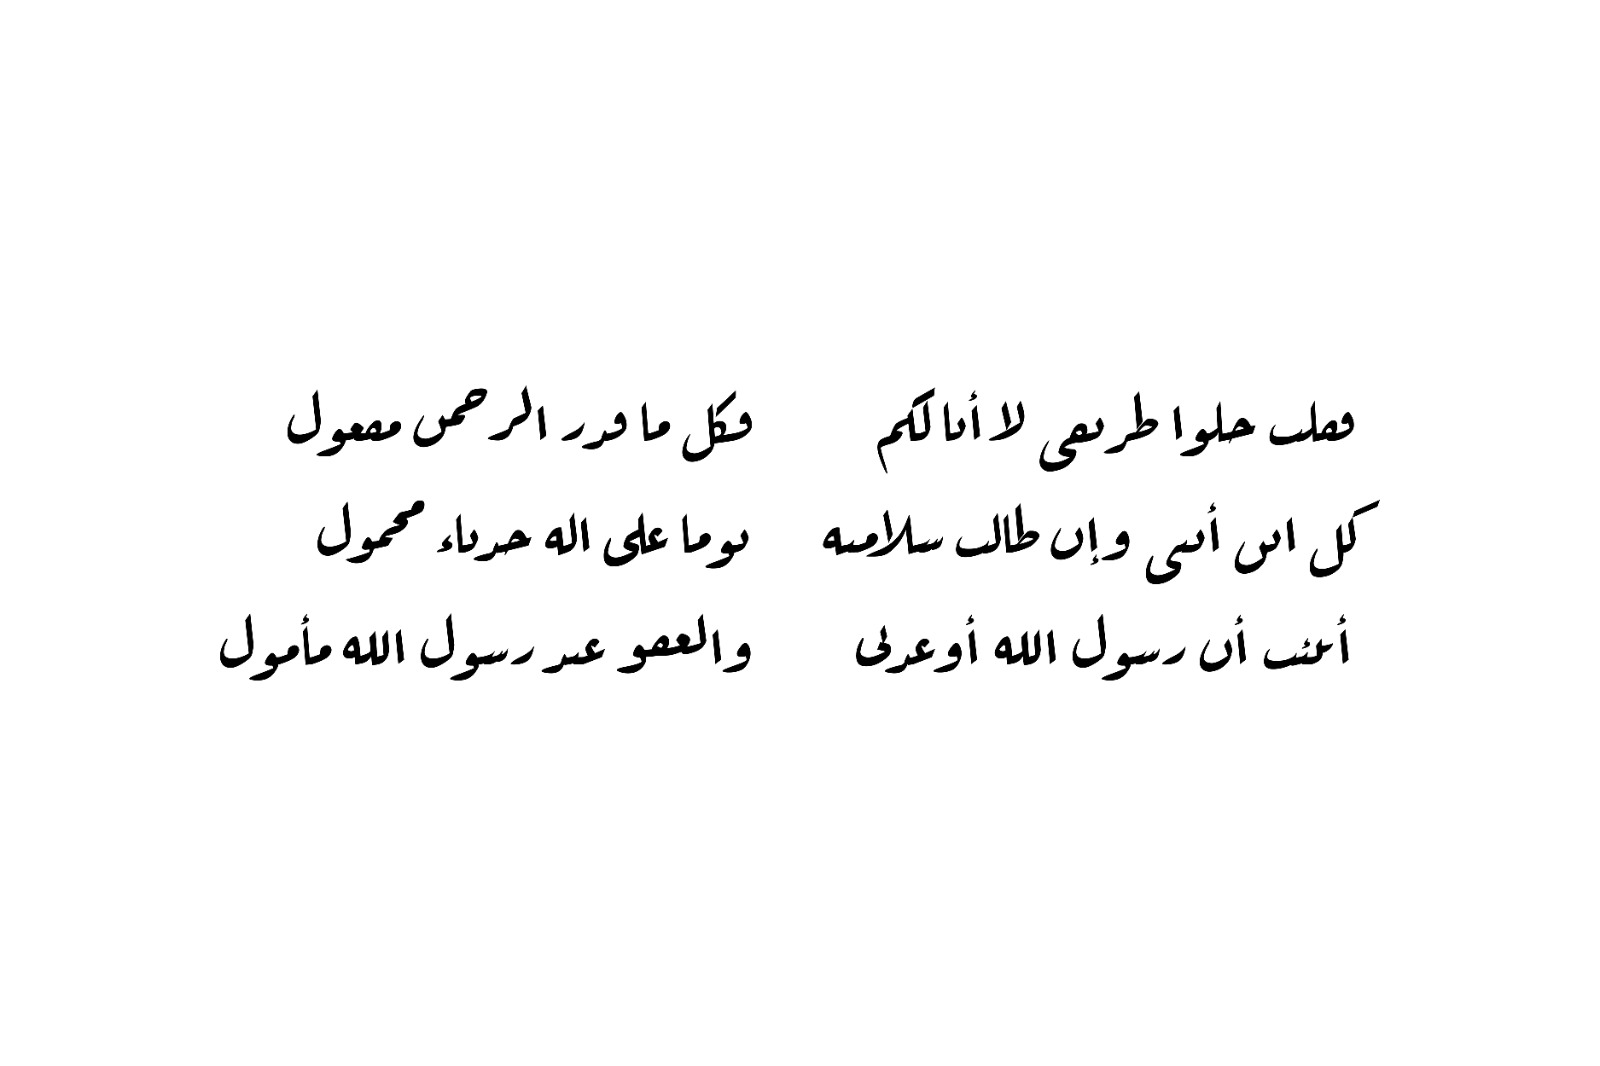
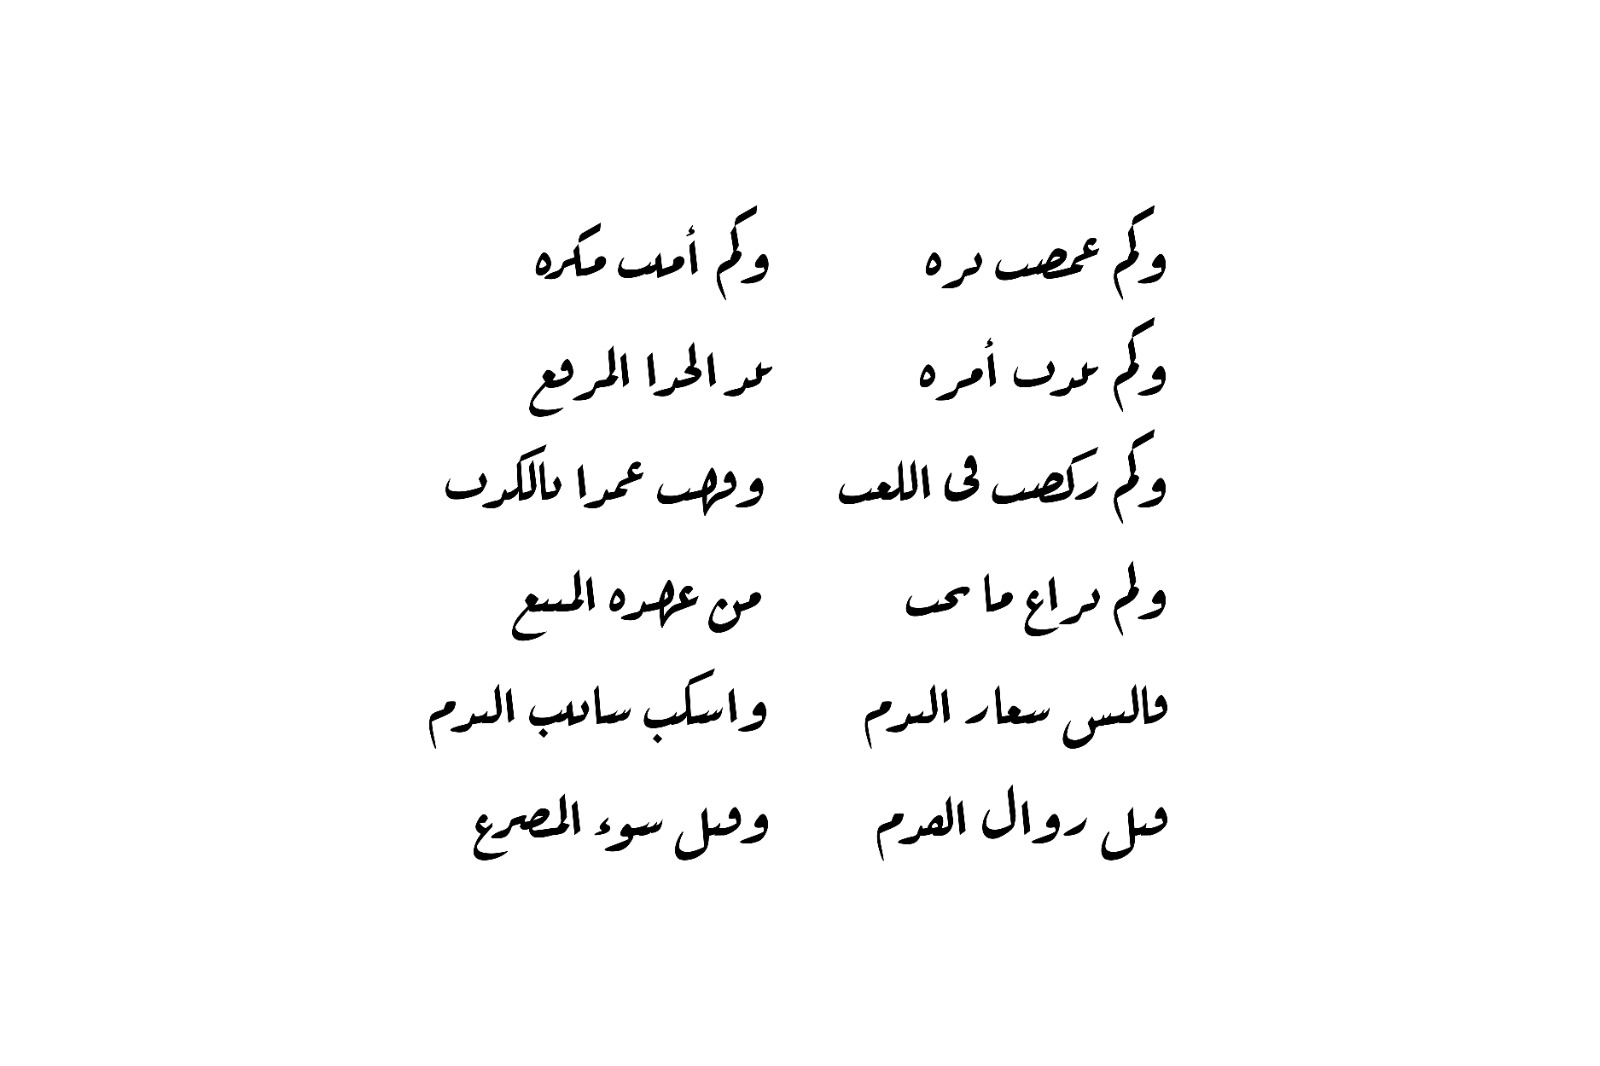
final version

diff --git a/src/husam.jsx b/src/husam.jsx
@@ -6,21 +6,9 @@ import { useState, useEffect, useRef } from "react";
 const TEAM_NAMES = ["الفريق الأول", "الفريق الثاني"];
 
 const CATEGORIES = [
-  // {
-  //   name: "لعبة الصور",
-  //   emoji: "🐪",
-  //   questions: [
-  //     { points: 200, q: "", a: "زرقاء اليمامة",    img: "/images/31200.jpeg" },
-  //     { points: 400, q: "", a: "الصبر مفتاح الفرج", img: "/images/31400.jpeg" },
-  //     { points: 600, q: "", a: "سبق السيف العذل",   img: "/images/31600.jpeg" },
-  //     { points: 200, q: "", a: "الفرزدق",           img: "/images/32200.jpeg" },
-  //     { points: 400, q: "", a: "ابن خلدون",         img: "/images/32400.jpeg" },
-  //     { points: 600, q: "", a: "برشلونة",           img: "/images/32600.jpeg" },
-  //   ],
-  // },
   {
-    name: "الشعر",
-    emoji: "🐪",
+    name: "بدون نقاط",
+    emoji: " 🎤 ",
     questions: [
       { points: 200, q: "", a: "كأنك يا أبا زيد ما غزيت",    img: "/images/11200.jpeg" },
       { points: 400, q: "", a: "وليس بقولك من هذا بضائره العرب تعرف من أنكرت والعجم \n كلتا يديه غياثٌ عمَّ نفعهما يستوكفان ولا يعورهما عدم\n سهل الخليفة لا تخشى بوادره يزينه اثنان: حسن الخلق والشيم", img: "/images/11400.jpeg" },
@@ -31,150 +19,247 @@ const CATEGORIES = [
     ],
   },
   // {
-  //   name: "لعبة الصور",
-  //   emoji: "🐪",
+  //   name: "بدون نقاط",
+  //   emoji: " 🎤 ",
   //   questions: [
   //     { points: 200, q: "", a: "يا رب إن عظُمت ذنوبي كثرةً، فلقد علمت بأن عفوك أعظم ان كان لا يرجوك إلا مُحسن， فبمن يلوذ ويستجير المجرم ",    img: "/images/21200.jpeg" },
   //     { points: 400, q: "", a: "نأتي إلى الدنيا ونحن سواسية، طفل الملوك هنا كطفل الحاشية \nونغادر الدنيا ونحن كما ترى، متشابهون على قبور حافية \nأعمالنا تُعلي وتَخفض شأننا، وحسابنا بالحق يوم الغاشية \nحور وأنهار، قصور عالية، وجهنم تُصلى ونار حامية \nفاختر لنفسك ما تُحب وتبتغي، ما دام يومك والليالي باقية", img: "/images/21400.jpeg" },
-  //     { points: 600, q: "", a: "أتيت القبور فناديتها، فأين المعظَّم والمحتقر؟ \nوأين المدِلُّ بسلطانه، وأين المزكَّى إذا ما افتخر؟ \nتفانوا جميعا فما مخبر، وماتوا جميعا ومات الخبر \nتروح وتغدو بنات الثرى، فتمحو محاسن تلك الصور",   img: "/images/21600.jpeg" },
+  //     { points: 600, q: "", a: "أتيت القبور فناديتها، فأين المعظَّم والمحتقر؟ وأين المدِلُّ بسلطانه، وأين المزكَّى إذا ما افتخر؟ تفانوا جميعا فما مخبر، وماتوا جميعا ومات الخبر تروح وتغدو بنات الثرى، فتمحو محاسن تلك الصور فيا سائلي عن أناس مضوا، أما لك فيما ترى معتبر؟",   img: "/images/21600.jpeg" },
   //     { points: 200, q: "", a: "إذا ما قال لي ربي أما استحييت تعصيني \  وتخفي الذنب عن خلقي وبالعصيان تأتيني",           img: "/images/22200.jpeg" },
   //     { points: 400, q: "", a: "َيُّها الكاتِبُ ما تَكتُبُ مَكتوبٌ عَلَيك فَاِجعَلِ المَكتوبَ خَيراً فَهوَ مَردودٌ إِلَيك",         img: "/images/22400.jpeg" },
   //     { points: 600, q: "", a: "لا علم لي إن كنت أُمسي بينكم حيا لعلي أو قتيلا ربما | فإذا قُتلت فلست أدري موئلي في جنة أم سعير أُضرما | لكن جلدي مس جلدك لعلي أمضي وجلدي عن جهنم حرما",           img: "/images/22600.jpeg" },
   //   ],
   // },
-  {
-    name: "دينية",
-    emoji: "🕌",
+  // {
+  //   name: "بدون نقاط",
+  //   emoji: " 🎤 ",
+  //   questions: [
+  //     { points: 200, q: "", a: "اللهم لولا أنت ما اهتدينا، ولا تصدقنا ولا صلينا إنا إذا صِيح بنا أتينا، وبالصياح عولوا علينا إن الألى هم بغوا علينا، إذا أرادوا فتنة أبينا",    img: "/images/31200.jpeg" },
+  //     { points: 400, q: "", a: "يا فاطر الخلق البديع وكافلا رزق الجميع سحاب جودك هاطل يا مُسبغ البر الجزيل ومُسبل الستر الجميل، عميم طولك طائل يا عالم السر الخفي ومُنجز الوعد الوقي، قضاء حكمك عادل", img: "/images/31400.jpeg" },
+  //     { points: 600, q: "", a: "النفس تجزع أن تكون فقيرة ... والفقر خير من غنى يطغيها ... وغنى النفوس هو الكفاف فإن أبت ... فجميع ما في الأرض لا يكفيها ... هي القناعة فالزمها تكن ملكاً ... لو لم تكن لك إلا راحة البدن",   img: "/images/31600.jpeg" },
+  //     { points: 200, q: "", a: "والضعيف فيكم قوي عندي حتى أُريح عليه حقه، والقوي فيكم ضعيف عندي حتى آخذ الحق منه",           img: "/images/32200.jpeg" },
+  //     { points: 400, q: "", a: "لا تأسفن على الدنيا وما فيها \  فالموت لا شك يفنينا ويفنيها \  واعمل لدار غد رضوان خازنها \ والجار أحمد والرحمن ناشيها",         img: "/images/32400.jpeg" },
+  //     { points: 600, q: "", a: "قل للمليحة في الخمار الأسود ماذا فعلت بزاهدٍ مُتعبد | قد كان شمَّر للصلاة ثيابه حتى قعدت له بباب المسجد | ردي له صلاته وصيامه لا تقتليه بحق محمد",           img: "/images/32600.jpeg" },
+  //   ],
+  // },
+  // {
+  //   name: "بدون نقاط",
+  //   emoji: " 🎤 ",
+  //   questions: [
+  //     { points: 200, q: "", a: "لا تنه عن خُلق وتأتي مثله، عار عليك إذا فعلت عظيم",    img: "/images41200.jpeg" },
+  //     { points: 400, q: "", a: " قَد رَأَيتَ القُرونَ قَبلُ تَفانَت \  دَرَسَت وَاِنقَضَت سَريعاً وَبانَت \  كَم أُناسٍ رَأَيتَ أَكرَمَتِ الدُنــيا \ بِبَعضِ العُروضِ ثُمَّ أَهانَت", img: "/images/41400.jpeg" },
+  //     { points: 600, q: "", a: "واندب زمانا سلفا سوَّدت فيه الصحفا، ولم تزل معتكفا على القبيح الشنع كم ليلة أودعتها مآثما أبدعتها، لشهوة أطعتها في مرقد ومضجع",   img: "/images/41600.jpeg" },
+  //     { points: 200, q: "", a: "لكل داء دواء يُستطب به، إلا الحماقة أعيت من يداويها",           img: "/images/42200.jpeg" },
+  //     { points: 400, q: "", a: "لَعَمرُكَ ما الإِنسانُ إِلّا بِدينِهِ \  فَلا تَترُكِ التَقوى اِتِّكالاً عَلى النَسَب \  فَقَد رَفَعَ الإِسلامُ سَلمانَ فارِسٍ \  وَقَد وَضَعَ الشِركُ الشَريفَ أَبا لَهَب",         img: "/images/42400.jpeg" },
+  //     { points: 600, q: "", a: "لَعَمرُكَ ما الإِنسانُ إِلّا بِدينِهِ \  فَلا تَترُكِ التَقوى اِتِّكالاً عَلى النَسَب \  فَقَد رَفَعَ الإِسلامُ سَلمانَ فارِسٍ \  وَقَد وَضَعَ الشِركُ الشَريفَ أَبا لَهَب",           img: "/images/42600.jpeg" },
+  //   ],
+  // },
+  // {
+  //   name: "بدون نقاط",
+  //   emoji: " 🎤 ",
+  //   questions: [
+  //     { points: 200, q: "", a: "واخضع خضوع المعترف، ولذ ملاذ المقترف واعص هواك وانحرف، عنه انحراف المُقلع",    img: "/images/51200.jpeg" },
+  //     { points: 400, q: "", a: "فَما كُلُّ مَن تَهواهُ يَهواكَ قَلبُهُ \ وَلا كُلُّ مَن صافَيتَهُ لَكَ قَد صَفا \ إِذا لَم يَكُن صَفوُ الوِدادِ طَبيعَةً \ فَلا خَيرَ في وِدٍّ يَجيءُ تَكَلُّفا", img: "/images/51400.jpeg" },
+  //     { points: 600, q: "", a: "إلامَ تسهو وتَني، ومُعظم العمر فَني في ما يضر المقتني، ولست بالمرتدع ويحك يا نفس احرصي， على ارتياد المخلص وطاوعي وأخلصي， واستمعي النصح وعي",   img: "/images/51600.jpeg" },
+  //     { points: 200, q: "", a: "لا ترتجي من عباد الله مسالة \ فالعبد عبدٌ ورب العبد يهب",           img: "/images/52200.jpeg" },
+  //     { points: 400, q: "", a: "ولدتك أمُّك يا ابن آدم باكياً والناس حولك يضحكون سرورا فاعمل لنفسك أن تكون إذا بكوا في يوم موتك ضاحكاً مسرورا",         img: "/images/52400.jpeg" },
+  //     { points: 600, q: "", a: "وكم غمصت بره، وكم أمنت مكره، وكم نبذت أمره نبذ الحذا المرقع وكم ركضت في اللعب، وفُهت عمدا بالكذب، ولم تراع ما يحب من عهده المتبع فالبس شعار الندم، واسكب شآبيب الندم، قبل زوال القدم وقبل سوء المصرع",           img: "/images/52600.jpeg" },
+  //   ],
+  // },
+
+  // Group 1
+{
+    name: "من أنا؟",
+    emoji: "🎭",
     questions: [
-      { points: 200, q: "اكثر نبي ذكر في القران؟", a: "موسى" },
-      { points: 400, q: "السورة التي تسمى قلب القران؟", a: "يس" },
-      { points: 600, q: "معنى تؤزهم ازا؟", a: "تحركهم بشده" },
-      { points: 200, q: "ماهو الكوثر؟", a: "نهر في الجنه أعطاه الله للنبي" },
-      { points: 400, q: "معنى كلمة ضيزى؟", a: "قسمة ظالمة" },
-      { points: 600, q: "معنى الرقيم؟", a: "اللوح المكتوب" },
+      { points: 200, q: "شيدتني أيدٍ لا تُحصى فوق الجبال والوديان، بُنيت لأمنع الغزاة لكنهم اخترقوني، وأمتد لآلاف الأميال. من أنا؟", a: "سور الصين العظيم" },
+      { points: 400, q: "ولدت في ليلة واحدة عام 1961 وقسّمت مدينة بأكملها بين عالمين، وفي ليلة واحدة أيضاً عام 1989 هدمني الناس بأيديهم. من أنا؟", a: "جدار برلين" },
+      { points: 600, q: "أقول إن الصواب والخطأ ليسا مطلقين بل يتحددان بالثقافة والزمان، لكنني أنهار حين تُسأل إن كانت الإبادة الجماعية خطأً في كل زمان. من أنا؟", a: "النسبية الأخلاقية" },
+      { points: 200, q: "أنهيت حرباً كانت ستأكل ملايين، لكنني فتحت نقاشاً لم يُغلق عن الحد الفاصل بين العلم والأخلاق. من أنا؟", a: "القنبلة النووية" },
+      { points: 400, q: "خضت قرابة أربعة عقود بين عملاقين لم تشتبك جيوشهما مباشرة، وانتهيت دون معاهدة رسمية حين انهار أحد طرفيها من الداخل. من أنا؟", a: "الحرب الباردة" },
+      { points: 600, q: "لستُ تسجيلاً أميناً للماضي بل إعادة بناء تتغير في كل مرة تستدعيني، وهويتك الشخصية مبنية بالكامل عليّ. من أنا؟", a: "الذاكرة" },
     ],
-  },
-  // {
-  //   name: "دينية",
-  //   emoji: "🕌",
-  //   questions: [
-  //     { points: 200, q: "معنى الفلق؟", a: "الصباح" },
-  //     { points: 400, q: "معنى الزبانية؟", a: "ملائكة العذاب" },
-  //     { points: 600, q: "من الذي رافق موسى في رحلته للخضر؟", a: "يوشع" },
-  //     { points: 200, q: "السورة التي تسمى بقلب القران؟", a: "يس" },
-  //     { points: 400, q: "معنى المزن؟", a: "السحاب" },
-  //     { points: 600, q: "معنى كلمة فومها؟", a: "قمح" },
-  //   ],
-  // },
-  // {
-  //   name: "دينية",
-  //   emoji: "🕌",
-  //   questions: [
-  //     { points: 200, q: "اول سورة نزلت في القران؟", a: "العلق" },
-  //     { points: 400, q: "معنى كلمة سجيل؟", a: "طين متحجر محرق بالنار" },
-  //     { points: 600, q: "معنى المُهل؟", a: "النحاس المذاب" },
-  //     { points: 200, q: "من هو النبي المسمى إسرائيل؟", a: "يعقوب" },
-  //     { points: 400, q: "معنى كلمة امشاج؟", a: "اخلاط" },
-  //     { points: 600, q: "معنى السامدون؟", a: "اللاهون الغافلون" },
-  //   ],
-  // },
-  {
-    name: "معلومات عامة",
-    emoji: "🌍",
-    questions: [
-      { points: 200, q: "من مخترع المصباح؟", a: "اديسون" },
-      { points: 400, q: "عدد لاعبين كرة السلة؟", a: "5" },
-      { points: 600, q: 'من القائل "قربا نربط النعامة مني لقحت حرب وائل عن حيالي"؟', a: "الحارث بن عباد" },
-      { points: 200, q: "مؤسس علم الجبر؟", a: "الخوارزمي" },
-      { points: 400, q: "اسم اول جامعة في العالم؟", a: "القرويين" },
-      { points: 600, q: "الكوكب صاحب اكبر عدد اقمار؟", a: "زحل" },
-    ],
-  },
-  // {
-  //   name: "معلومات عامة",
-  //   emoji: "🌍",
-  //   questions: [
-  //     { points: 200, q: "ماهو اكبر محيط في العالم؟", a: "الهادئ" },
-  //     { points: 400, q: "ماهو المكان الذي لا يصله الدم في الجسم؟", a: "العين" },
-  //     { points: 600, q: "الكوكب الذي يومه أطول من سنته؟", a: "الزهرة" },
-  //     { points: 200, q: "اكبر كوكب في المجموعة الشمسية؟", a: "المشتري" },
-  //     { points: 400, q: "الحيوان الذي لا يصدر اي صوت؟", a: "الزرافة" },
-  //     { points: 600, q: "العلم الذي يدرس الزلازل؟", a: "السيزمولوجيا" },
-  //   ],
-  // },
-  // {
-  //   name: "معلومات عامة",
-  //   emoji: "🌍",
-  //   questions: [
-  //     { points: 200, q: "اطول نهر في العالم؟", a: "النيل" },
-  //     { points: 400, q: "اسرع مخلوق في الارض؟", a: "الشاهين" },
-  //     { points: 600, q: "الحيوان الذي لا يملك معدة؟", a: "فرس النهر" },
-  //     { points: 200, q: "المعدن السائل في درجة حرارة الغرفة؟", a: "الزئبق" },
-  //     { points: 400, q: "الغاز الأكثر وفرة في الغلاف الجوي؟", a: "النيتروجين" },
-  //     { points: 600, q: "من هو مكتشف الدورة الدموية الصغرى؟", a: "ابن النفيس" },
-  //   ],
-  // },
-  {
-    name: "جغرافيا",
-    emoji: "📍",
-    questions: [
-      { points: 200, q: "أصغر دولة في العالم؟", a: "الفاتيكان" },
-      { points: 400, q: "الدولة التي تملك اكبر مخزون نفط مؤكد؟", a: "فنزويلا" },
-      { points: 600, q: "اكبر دولة حبيسة لا تملك اي اتصال بالبحر؟", a: "كازاخستان" },
-      { points: 200, q: "الدولة التي تقع بين قارتين؟", a: "تركيا" },
-      { points: 400, q: "الدولة التي انفصلت عن باكستان 1971؟", a: "بنغلادش" },
-      { points: 600, q: "كم عدد الدول التي تعتبر اللغة العربية لغة رسمية؟", a: "24" },
-    ],
-  },
-  // {
-  //   name: "جغرافيا",
-  //   emoji: "📍",
-  //   questions: [
-  //     { points: 200, q: "في اي دولة وقعت معركة حطين؟", a: "فلسطين" },
-  //     { points: 400, q: "تاريخ الحرب العالمية الاولى (متى بدأت وانتهت)؟", a: "1914-1918" },
-  //     { points: 600, q: "الدولة التي تعرف بدولة الارز؟", a: "لبنان" },
-  //     { points: 200, q: "المضيق الذي يفصل اسبانيا والمغرب؟", a: "جبل طارق" },
-  //     { points: 400, q: "في اي مدينة تم القاء القنبلة النووية الثانية؟", a: "ناغازاكي" },
-  //     { points: 600, q: "الدولة التي تملك اكبر عدد براكين نشطة؟", a: "إندونيسيا" },
-  //   ],
-  // },
-  // {
-  //   name: "جغرافيا",
-  //   emoji: "📍",
-  //   questions: [
-  //     { points: 200, q: "العملة الرسمية في البرازيل؟", a: "الريال" },
-  //     { points: 400, q: "أطول سلسلة جبال؟", a: "الانديز" },
-  //     { points: 600, q: "الدولة التي تملك اكبر عدد مناطق زمنية؟", a: "فرنسا" },
-  //     { points: 200, q: "الدولة صاحبة اكبر غابة؟", a: "البرازيل" },
-  //     { points: 400, q: "الدولة التي تمنع العلكة؟", a: "سنغافورة" },
-  //     { points: 600, q: "الدولة صاحبة اكبر عدد جزر في العالم؟", a: "السويد" },
-  //   ],
-  // },
-  // {
+},
+// Group 2
+// {
+//     name: "من أنا؟",
+//     emoji: "🎭",
+//     questions: [
+//       { points: 200, q: "اخترعني الجيش الأمريكي في الستينيات لغرض عسكري محدود، واليوم لا يعرف كثيرون كيف كانت الحياة قبلي. من أنا؟", a: "الإنترنت" },
+//       { points: 400, q: "وُلدت في أمريكا التي لم تعترف بي إنساناً، وجدت نفسي في السجن شاباً فأعدت بناء نفسي من الصفر وخرجت خطيباً حاداً. من أنا؟", a: "مالكوم إكس" },
+//       { points: 600, q: "ظللت في ظل شيخي حتى كاد الناس ينسون أنني عالم مستقل، سجنوني معه وحين أُفرج عني أفرج عن قلم لم يتوقف. من أنا؟", a: "ابن القيم" },
+//       { points: 200, q: "تشكّلت على مدى ملايين السنين تحت الأرض، حوّلت دولاً صحراوية فقيرة إلى قوى مالية وأشعل حروباً ورسم تحالفات. من أنا؟", a: "البترول" },
+//       { points: 400, q: "عاش في زمن تقلّبات سياسية وشهد سقوط دول، حوّل ذلك إلى نظرية عن كيف تقوم الحضارات وكيف تسقط، والتقى بتيمورلنك. من أنا؟", a: "ابن خلدون" },
+//       { points: 600, q: "لا اقتصاد يعمل بدوني ولا علاقة تقوم بدوني، أُبنى ببطء شديد وأنهار بسرعة مذهلة. من أنا؟", a: "الثقة" },
+//     ],
+// },
+// // Group 3
+// {
+//     name: "من أنا؟",
+//     emoji: "🎭",
+//     questions: [
+//       { points: 200, q: "أطلقني البشر إلى السماء وأدور حول الأرض بدقة، بدأت قصتي عام 1957 وأصبحت شيئاً لا يتخيل أحد الحياة بدوني. من أنا؟", a: "القمر الصناعي" },
+//       { points: 400, q: "بدأت بجوع الشعب وانتهت بإعدام ملك على الملأ، رفعت شعارات الحرية والمساواة ثم أكلت أبناءها. من أنا؟", a: "الثورة الفرنسية" },
+//       { points: 600, q: "وُلد في السهول الأوراسية وبِيع في سوق النخاسة وهو مراهق، قاتل الصليبيين والمغول في جيل واحد وهزم الاثنين. من أنا؟", a: "الظاهر بيبرس" },
+//       { points: 200, q: "في القرن الرابع عشر محوت ثلث سكان أوروبا في سنوات قليلة، وصلت عبر الجرذان والبراغيث ويسمونني الموت الأسود. من أنا؟", a: "الطاعون" },
+//       { points: 400, q: "سجنته دولة جنوب أفريقيا سبعاً وعشرين عاماً، خرج شيخاً لكن غير مكسور وانتُخب رئيساً للبلد ذاتها التي سجنته. من أنا؟", a: "مانديلا" },
+//       { points: 600, q: "عُهد إليّ بجمع كتاب الله بين دفتين مرتين، وكنت مرجعاً في المواريث لمن هم أكبر مني سناً في الإسلام. من أنا؟", a: "زيد بن ثابت" },
+//     ],
+// },
+// // Group 4
+// {
+//     name: "من أنا؟",
+//     emoji: "🎭",
+//     questions: [
+//       { points: 200, q: "ظهرت في نهاية 2019 وأوقفت العالم بأسره في أشهر، أغلقت الحدود وعطّلت الاقتصادات وحوّلت المصافحة إلى فعل مشبوه. من أنا؟", a: "كوفيد" },
+//       { points: 400, q: "قاوم الاحتلال الإيطالي في الصحراء الليبية لأكثر من عشرين عاماً، أسروه وهو في الثمانين وأعدموه علناً. من أنا؟", a: "عمر المختار" },
+//       { points: 600, q: "وُلد لأب عربي وأمٍّ حبشية، أثبت نفسه في القتال حتى اضطر أبوه أن يعترف به، وحوّل حرمانه في الحب إلى معلقة تُقرأ حتى اليوم. من أنا؟", a: "عنترة بن شداد" },
+//       { points: 200, q: "هي الوحيدة من عجائب الدنيا السبع القديمة التي ما زالت قائمة، وظلت أطول إنشاء بشري لأكثر من ثلاثة آلاف وثمانمئة سنة. من أنا؟", a: "الأهرامات" },
+//       { points: 400, q: "عبر مضيقاً يحمل اسمه حتى اليوم بجيش أقل عدداً وهزم من واجهه في أسابيع، وفتح حضارة أضاءت أوروبا قروناً. من أنا؟", a: "طارق بن زياد" },
+//       { points: 600, q: "أقيسني البشر بالشمس والقمر لكن ماهيتي الحقيقية لا يزال الفيزيائيون يتجادلون فيها، وأثبت أينشتاين أنني لست مطلقاً. من أنا؟", a: "الزمن" },
+//     ],
+// },
+// // Group 5
+// {
+//     name: "من أنا؟",
+//     emoji: "🎭",
+//     questions: [
+//       { points: 200, q: "غادر طنجة وهو في الثانية والعشرين قاصداً الحج ولم يعد لثلاثين عاماً، رحلاته تجاوزت ما قطعه ماركو بولو بعدة أضعاف. من أنا؟", a: "ابن بطوطة" },
+//       { points: 400, q: "والٍ أموي بنى المدن وشق الطرق لكن يده بالدم كانت أسرع من يده بالعمران، وخطبته يوم دخل الكوفة حُفظت كنموذج في البلاغة. من أنا؟", a: "الحجاج بن يوسف" },
+//       { points: 600, q: "طبقة رقيقة تفصل بين الحياة وإشعاع يدمرها، وقصتها النادرة أنها القضية البيئية الكبرى الوحيدة التي تصرف فيها البشر في الوقت المناسب. من أنا؟", a: "الأوزون" },
+//       { points: 200, q: "اكتُشفت عام 1953 وأحمل تعليمات بناء كل كائن حي، وأصبحت أداة في أيدي العدالة تُدين المجرمين وتُبرئ المظلومين. من أنا؟", a: "الـ DNA" },
+//       { points: 400, q: "استولى على السلطة بانقلاب وهو في السابعة والعشرين وحكم ليبيا أربعة عقود، سقط عام 2011 في الشارع الذي ظن أنه يملكه. من أنا؟", a: "القذافي" },
+//       { points: 600, q: "كان من أوائل من أسلموا وهو مراهق، قاد المسلمين في القادسية وفتح بلاد فارس، وقيل إن دعوته كانت مستجابة لا تُرد. من أنا؟", a: "سعد بن أبي وقاص" },
+//     ],
+// },
   
+  {
+    name: "بدون كلام",
+    emoji: "🤐",
+    questions: [
+      { points: 200, q: "بيعطيك حسام", a: "ذاك الشبل من ذاك الاسد" },
+      { points: 400, q: "بيعطيك حسام", a: "ملك قارون" },
+      { points: 600, q: "بيعطيك حسام", a: "سين جيم" },
+      { points: 200, q: "بيعطيك حسام", a: "كل يرى الناس بعين طبعه" },
+      { points: 400, q: "بيعطيك حسام", a: "ليس كل ما يلمع ذهبا" },
+      { points: 600, q: "بيعطيك حسام", a: "ويسترن يونيون" },
+    ],
+  },
   // {
-  //   name: "شخصيات",
-  //   emoji: "👤",
+  //   name: "بدون كلام",
+  //   emoji: "🤐",
   //   questions: [
-  //     { points: 200, q: "بيعطيك حسام", a: "ثانوس" },
-  //     { points: 400, q: "بيعطيك حسام", a: "ايلون ماسك" },
-  //     { points: 600, q: "بيعطيك حسام", a: "معاوية بن ابي سفيان" },
-  //     { points: 200, q: "بيعطيك حسام", a: "مايكل جاكسون" },
-  //     { points: 400, q: "بيعطيك حسام", a: "عثمان الخميس" },
-  //     { points: 600, q: "بيعطيك حسام", a: "جنكيز خان" },
+  //     { points: 200, q: "بيعطيك حسام", a: "الحاجة أم الاختراع" },
+  //     { points: 400, q: "بيعطيك حسام", a: "درهم وقاية خير من قنطار علاج" },
+  //     { points: 600, q: "بيعطيك حسام", a: "راحت السكرة و جت الفكرة" },
+  //     { points: 200, q: "بيعطيك حسام", a: "إذا تم العقل نقص الكلام" },
+  //     { points: 400, q: "بيعطيك حسام", a: "من أمِن العقوبة أساء الأدب" },
+  //     { points: 600, q: "بيعطيك حسام", a: "من استعجل الشيء قبل أوانه عوقب بحرمانه" },
   //   ],
   // },
   // {
-  //   name: "شخصيات",
-  //   emoji: "👤",
+  //   name: "بدون كلام",
+  //   emoji: "🤐",
   //   questions: [
-  //     { points: 200, q: "بيعطيك حسام", a: "محمد علي" },
-  //     { points: 400, q: "بيعطيك حسام", a: "هرقل" },
-  //     { points: 600, q: "بيعطيك حسام", a: "ابن بطوطة" },
-  //     { points: 200, q: "بيعطيك حسام", a: "آينشتاين" },
-  //     { points: 400, q: "بيعطيك حسام", a: "صلاح الدين الايوبي" },
-  //     { points: 600, q: "بيعطيك حسام", a: "اوبينهايمر" },
+  //     { points: 200, q: "بيعطيك حسام", a: "مصائب قومٍ عند قومٍ فوائد" },
+  //     { points: 400, q: "بيعطيك حسام", a: "إذا عُرف السبب بطل العجب" },
+  //     { points: 600, q: "بيعطيك حسام", a: "أول الغضب جنون وآخره ندم" },
+  //     { points: 200, q: "بيعطيك حسام", a: "ليس الخبر كالمعاينة" },
+  //     { points: 400, q: "بيعطيك حسام", a: "لكل امرئٍ من اسمه نصيب" },
+  //     { points: 600, q: "بيعطيك حسام", a: "كيلوباترا" },
   //   ],
+  // },
+  // {
+  //   name: "بدون كلام",
+  //   emoji: "🤐",
+  //   questions: [
+  //     { points: 200, q: "بيعطيك حسام", a: "ما ندم من استشار" },
+  //     { points: 400, q: "بيعطيك حسام", a: "ليوناردو دافنشي" },
+  //     { points: 600, q: "بيعطيك حسام", a: "الشيخ من رباك" },
+  //     { points: 200, q: "بيعطيك حسام", a: "مثلث فيثاغورس" },
+  //     { points: 400, q: "بيعطيك حسام", a: "انفجار تشيرنوبل" },
+  //     { points: 600, q: "بيعطيك حسام", a: "العنصر الكيميائي اكس" },
+  //   ],
+  // },
+  // {
+  //   name: "بدون كلام",
+  //   emoji: "🤐",
+  //   questions: [
+  //     { points: 200, q: "بيعطيك حسام", a: "من عاشر القوم أربعين يومًا صار منهم" },
+  //     { points: 400, q: "بيعطيك حسام", a: "قنبلة الفتى الصغير و الرجل السمين" },
+  //     { points: 600, q: "بيعطيك حسام", a: "خير الصدقة ما كان عن ظهر غنى" },
+  //     { points: 200, q: "بيعطيك حسام", a: "أعطِ الخبز خبازه ولو أكل نصفه" },
+  //     { points: 400, q: "بيعطيك حسام", a: "من راقب الناس مات همًّا" },
+  //     { points: 600, q: "بيعطيك حسام", a: "من شبَّ على شيء شاب عليه" },
+  //   ],
+  // },
+
+
+
+  //   // Group 1
+  // {
+  //     name: "بدون كلام",
+  //     emoji: "🤐",
+  //     questions: [
+  //       { points: 200, q: "بيعطيك حسام", a: "برج ايفل" },
+  //       { points: 400, q: "بيعطيك حسام", a: "العصفور في اليد خير من عشرة على الشجرة" },
+  //       { points: 600, q: "بيعطيك حسام", a: "الحرب الباردة" },
+  //       { points: 200, q: "بيعطيك حسام", a: "الحرباء" },
+  //       { points: 400, q: "بيعطيك حسام", a: "الجار قبل الدار" },
+  //       { points: 600, q: "بيعطيك حسام", a: "معركة بدر" },
+  //     ],
+  // },
+  // // Group 2
+  // {
+  //     name: "بدون كلام",
+  //     emoji: "🤐",
+  //     questions: [
+  //       { points: 200, q: "بيعطيك حسام", a: "كأس العالم" },
+  //       { points: 400, q: "بيعطيك حسام", a: "البحر الأسود" },
+  //       { points: 600, q: "بيعطيك حسام", a: "الاتحاد السوفيتي" },
+  //       { points: 200, q: "بيعطيك حسام", a: "النعامة" },
+  //       { points: 400, q: "بيعطيك حسام", a: "اللي ما يعرف الصقر يشويه" },
+  //       { points: 600, q: "بيعطيك حسام", a: "صلح الحديبية" },
+  //     ],
+  // },
+  // // Group 3
+  // {
+  //     name: "بدون كلام",
+  //     emoji: "🤐",
+  //     questions: [
+  //       { points: 200, q: "بيعطيك حسام", a: "تمثال الحرية" },
+  //       { points: 400, q: "بيعطيك حسام", a: "الأسد لا يأكل الذباب" },
+  //       { points: 600, q: "بيعطيك حسام", a: "معركة حطين" },
+  //       { points: 200, q: "بيعطيك حسام", a: "الفيل" },
+  //       { points: 400, q: "بيعطيك حسام", a: "الوقت كالسيف إن لم تقطعه قطعك" },
+  //       { points: 600, q: "بيعطيك حسام", a: "غزوة الخندق" },
+  //     ],
+  // },
+  // // Group 4
+  // {
+  //     name: "بدون كلام",
+  //     emoji: "🤐",
+  //     questions: [
+  //       { points: 200, q: "بيعطيك حسام", a: "الهرم الأكبر" },
+  //       { points: 400, q: "بيعطيك حسام", a: "كل فتاة بأبيها معجبة" },
+  //       { points: 600, q: "بيعطيك حسام", a: "الـ FBI" },
+  //       { points: 200, q: "بيعطيك حسام", a: "الخفاش" },
+  //       { points: 400, q: "بيعطيك حسام", a: "جدار برلين" },
+  //       { points: 600, q: "بيعطيك حسام", a: "قانون نيوتن الثالث" },
+  //     ],
+  // },
+  // // Group 5
+  // {
+  //     name: "بدون كلام",
+  //     emoji: "🤐",
+  //     questions: [
+  //       { points: 200, q: "بيعطيك حسام", a: "برج بيزا المائل" },
+  //       { points: 400, q: "بيعطيك حسام", a: "القات" },
+  //       { points: 600, q: "بيعطيك حسام", a: "معركة اليرموك" },
+  //       { points: 200, q: "بيعطيك حسام", a: "الكنغر" },
+  //       { points: 400, q: "بيعطيك حسام", a: "إذا كان الكلام من فضة فالسكوت من ذهب" },
+  //       { points: 600, q: "بيعطيك حسام", a: "ناسا" },
+  //     ],
   // },
 ];
 